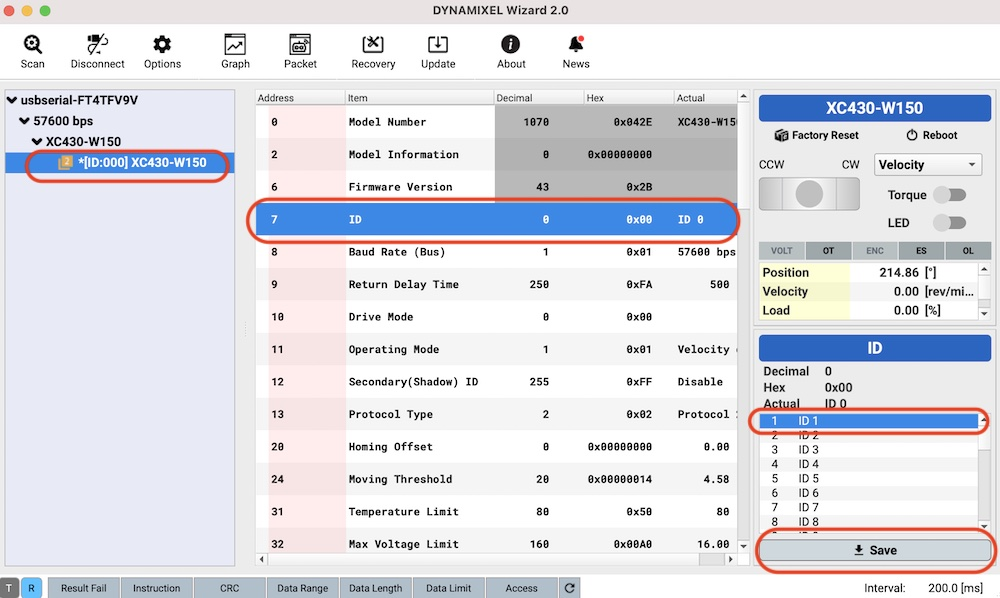
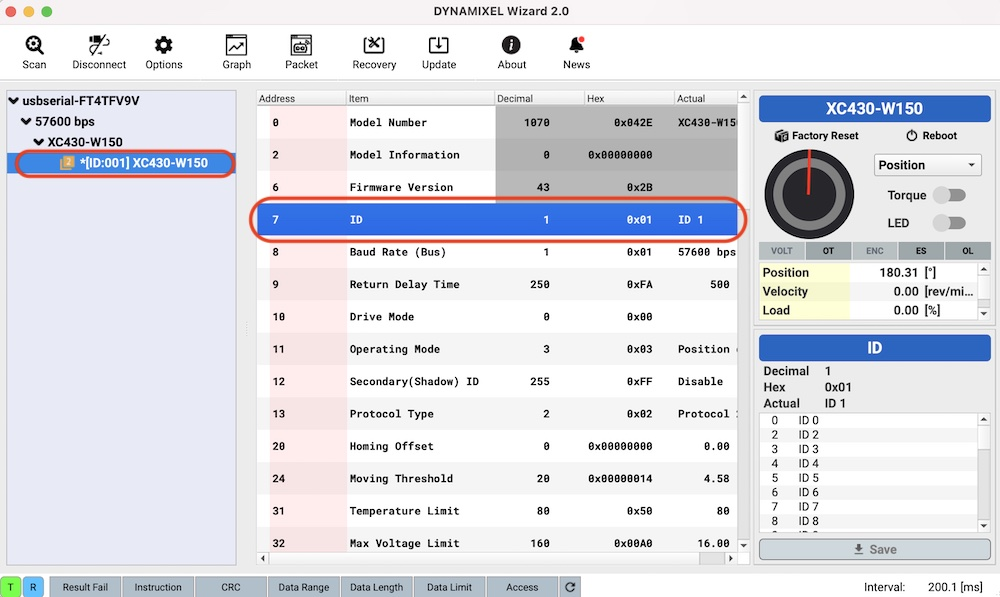
Deployed  with MkDocs version: 1.1.2

diff --git a/00.Build/02.servo/index.html b/00.Build/02.servo/index.html
@@ -280,6 +280,34 @@
   
 </li>
       
+        <li class="md-nav__item">
+  <a href="#id_1" class="md-nav__link">
+    サーボ ID
+  </a>
+  
+</li>
+      
+        <li class="md-nav__item">
+  <a href="#1" class="md-nav__link">
+    1つ目のサーボ
+  </a>
+  
+</li>
+      
+        <li class="md-nav__item">
+  <a href="#2" class="md-nav__link">
+    2つ目のサーボ
+  </a>
+  
+</li>
+      
+        <li class="md-nav__item">
+  <a href="#3" class="md-nav__link">
+    3つ目のサーボ
+  </a>
+  
+</li>
+      
     </ul>
   
 </nav>
@@ -586,6 +614,34 @@
   
 </li>
       
+        <li class="md-nav__item">
+  <a href="#id_1" class="md-nav__link">
+    サーボ ID
+  </a>
+  
+</li>
+      
+        <li class="md-nav__item">
+  <a href="#1" class="md-nav__link">
+    1つ目のサーボ
+  </a>
+  
+</li>
+      
+        <li class="md-nav__item">
+  <a href="#2" class="md-nav__link">
+    2つ目のサーボ
+  </a>
+  
+</li>
+      
+        <li class="md-nav__item">
+  <a href="#3" class="md-nav__link">
+    3つ目のサーボ
+  </a>
+  
+</li>
+      
     </ul>
   
 </nav>
@@ -658,12 +714,56 @@
 <p><img alt="" src="../img/wizard002.jpg" /></p>
 <p>IDを設定したいサーボを接続し、Scanします。IDに重複があるとScanに失敗するので、設定では1つのサーボのみ接続します。</p>
 <p><img alt="" src="../img/option001.jpg" /></p>
+<h2 id="id_1">サーボ ID</h2>
+<p>サーボのIDを設定します。今回は3つのサーボをID:1, ID:2, ID:3に設定します。</p>
+<table>
+<thead>
+<tr>
+<th align="left">サーボ</th>
+<th align="left">サーボID</th>
+</tr>
+</thead>
+<tbody>
+<tr>
+<td align="left">1つ目のサーボ</td>
+<td align="left">1</td>
+</tr>
+<tr>
+<td align="left">2つ目のサーボ</td>
+<td align="left">2</td>
+</tr>
+<tr>
+<td align="left">3つ目のサーボ</td>
+<td align="left">3</td>
+</tr>
+</tbody>
+</table>
+<h2 id="1">1つ目のサーボ</h2>
 <p>U2D2 Power Hub Boardに、サーボを1つだけ接続し、Scanします。</p>
 <p><img alt="" src="../img/wizard003.jpg" /></p>
 <p>サーボが発見されます。</p>
 <p><img alt="" src="../img/wizard004.jpg" /></p>
-<p>サーボのIDを設定します。今回は3つのサーボをID:1, ID:2, ID:3に設定します。</p>
-<p><img alt="" src="../img/wizard005.jpg" /></p>
+<p>1つ目は、初期値のままの1で大丈夫です。
+<img alt="" src="../img/wizard005.jpg" /></p>
+<p>サーボIDをサーボに付箋等を貼り付けて、IDが組み立て時にわかるようにしておきます。</p>
+<h2 id="2">2つ目のサーボ</h2>
+<p>U2D2 Power Hub Boardに、サーボを1つだけ接続し、Scanします。</p>
+<p><img alt="" src="../img/wizard003.jpg" /></p>
+<p>サーボが発見されます。</p>
+<p><img alt="" src="../img/wizard004.jpg" /></p>
+<p>2つ目は、IDを2に変更します。</p>
+<p><img alt="" src="../img/wizard006.jpg" /></p>
+<p><img alt="" src="../img/wizard007.jpg" /></p>
+<p>サーボIDをサーボに付箋等を貼り付けて、IDが組み立て時にわかるようにしておきます。</p>
+<h2 id="3">3つ目のサーボ</h2>
+<p>U2D2 Power Hub Boardに、サーボを1つだけ接続し、Scanします。</p>
+<p><img alt="" src="../img/wizard003.jpg" /></p>
+<p>サーボが発見されます。</p>
+<p><img alt="" src="../img/wizard004.jpg" /></p>
+<p>3つ目は、IDを3に変更します。</p>
+<p><img alt="" src="../img/wizard008.jpg" /></p>
+<p><img alt="" src="../img/wizard009.jpg" /></p>
+<p>サーボIDをサーボに付箋等を貼り付けて、IDが組み立て時にわかるようにしておきます。</p>
                 
               
               
